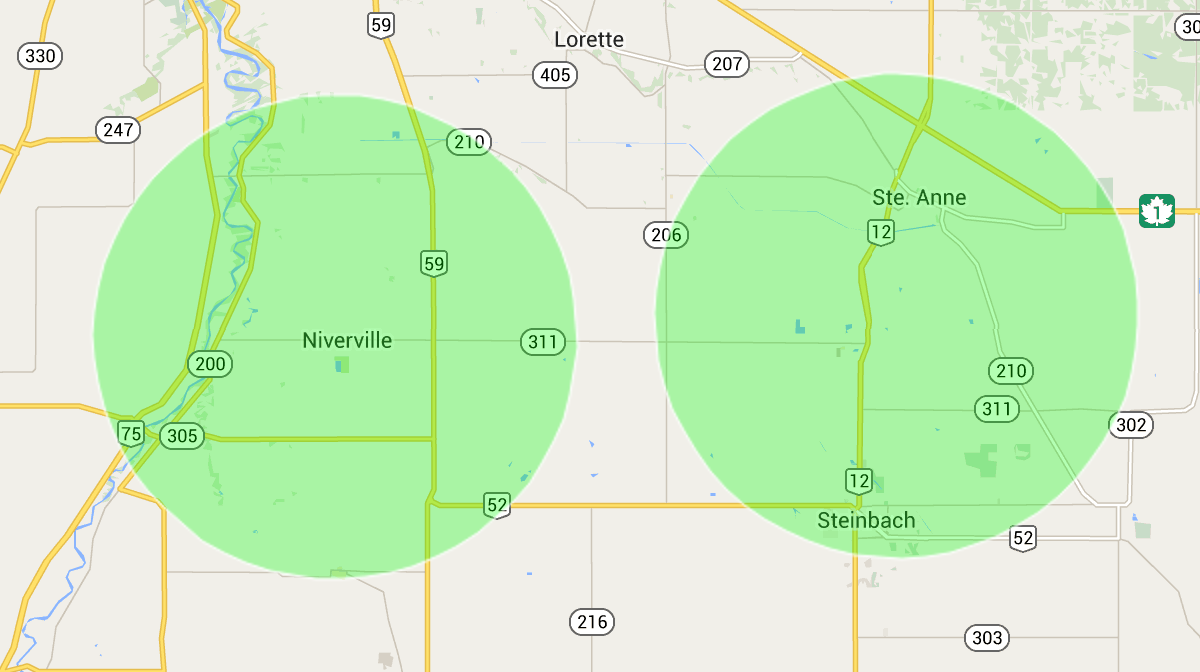
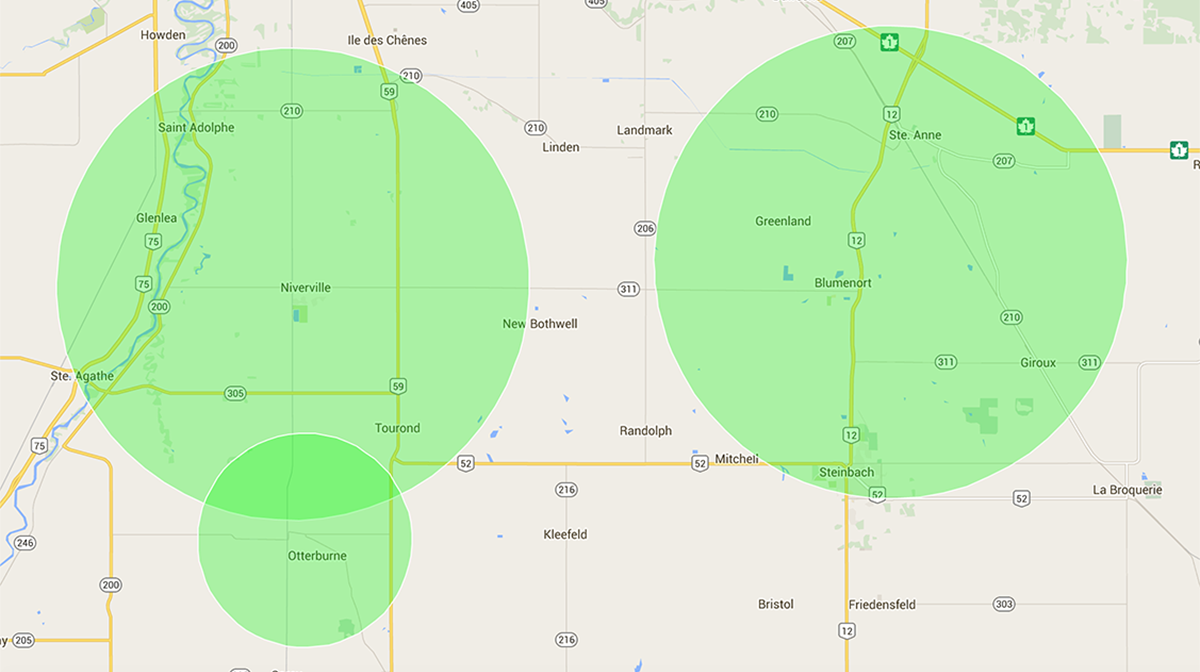
Add Otterburne coverage info

diff --git a/site/index.html b/site/index.html
@@ -56,8 +56,8 @@
 
 		<!-- Banner -->
 			<section id="banner">
-				<h2>Hello, Blumenort!</h2>
-				<p>We're happy to announce that our service area has expanded.</p>
+				<h2>Welcome aboard, Otterburne!</h2>
+				<p>We're happy to announce improvements to our service area.</p>
 				<ul class="actions">
 					<li><a href="contact.html" class="button special">Contact Us</a></li>
 					<li><a href="coverage.html" class="button">Coverage Map</a></li>
